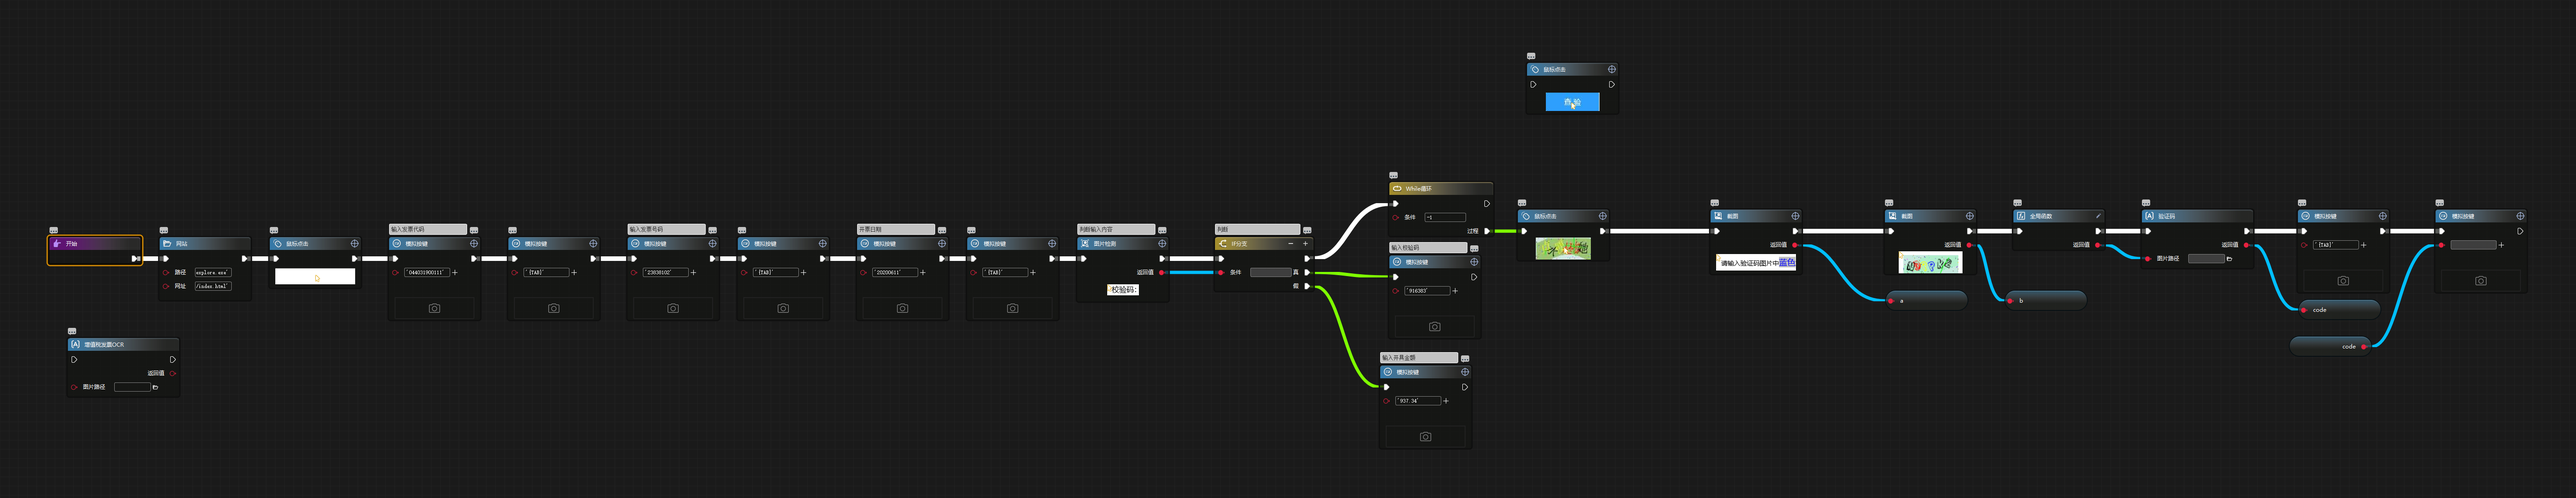
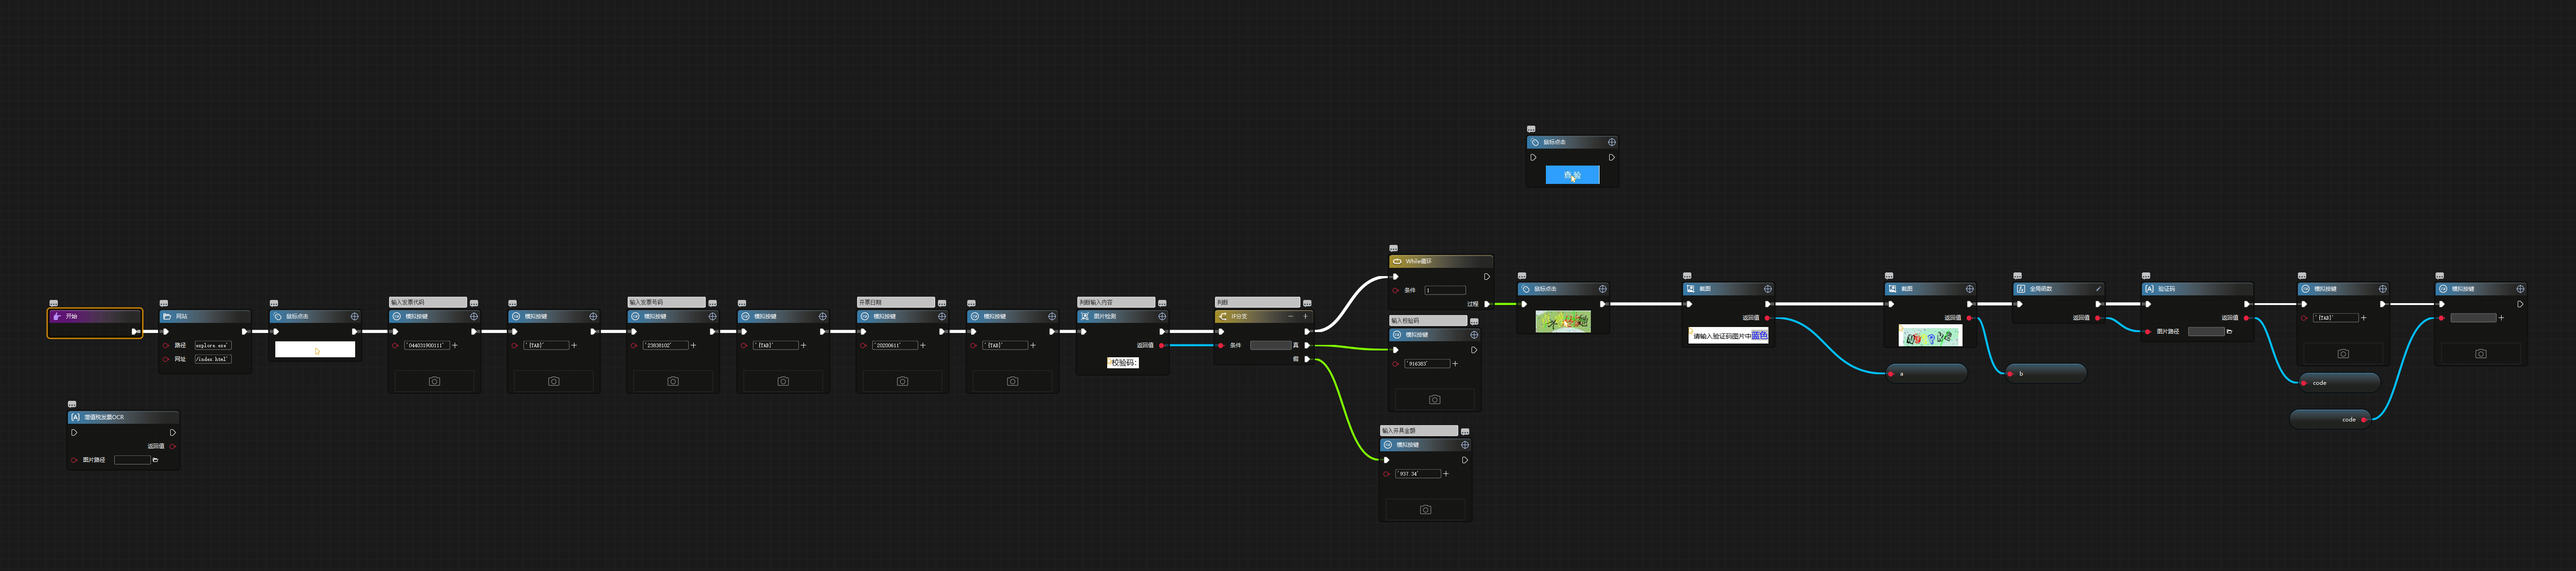
20200623151353

diff --git a/codes/Main.py b/codes/Main.py
@@ -1,5 +1,5 @@
 # coding=utf-8
-# 编译日期：2020-06-23 15:11:57
+# 编译日期：2020-06-23 15:13:53
 # 版权所有：www.i-search.com.cn
 import time
 import pdb
@@ -87,10 +87,12 @@ class lanhe_fapiao:
             ikeyboard.key_send_cs(text='937.34',waitfor=10)
         # While循环
         self.__logger.debug('Flow:flow1,StepNodeTag:2314350501348,Note:')
-        while -1:
+        while 1:
             # 鼠标点击
             self.__logger.debug('Flow:flow1,StepNodeTag:23151109681113,Note:')
+            time.sleep(0.5)
             iie.do_click_pos(win_title=r'国家税务总局全国增值税发票查验平台 - Internet Explorer',url=r'https://inv-veri.chinatax.gov.cn/index.html',selector=r'#yzm_img',button=r'left',curson=r'center',times=1,run_mode=r'unctrl',continue_on_error=r'break',waitfor=10)
+            time.sleep(5)
             # 截图
             self.__logger.debug('Flow:flow1,StepNodeTag:2314353040452,Note:')
             a = iimg.capture_image(win_title=r'国家税务总局全国增值税发票查验平台 - Internet Explorer',win_text=r'',left_indent=1253,top_indent=572,width=210,height=36,waitfor=30)

diff --git a/codes/Main_d.py b/codes/Main_d.py
@@ -1,5 +1,5 @@
 # coding=utf-8
-# 编译日期：2020-06-23 15:11:57
+# 编译日期：2020-06-23 15:13:53
 # 版权所有：www.i-search.com.cn
 import time
 import pdb
@@ -87,10 +87,12 @@ class lanhe_fapiao:
             ikeyboard.key_send_cs(text='937.34',waitfor=10)
         # While循环
         self.__logger.debug('Flow:flow1,StepNodeTag:2314350501348,Note:')
-        while -1:
+        while 1:
             # 鼠标点击
             self.__logger.debug('Flow:flow1,StepNodeTag:23151109681113,Note:')
+            time.sleep(0.5)
             iie.do_click_pos(win_title=r'国家税务总局全国增值税发票查验平台 - Internet Explorer',url=r'https://inv-veri.chinatax.gov.cn/index.html',selector=r'#yzm_img',button=r'left',curson=r'center',times=1,run_mode=r'unctrl',continue_on_error=r'break',waitfor=10)
+            time.sleep(5)
             # 截图
             self.__logger.debug('Flow:flow1,StepNodeTag:2314353040452,Note:')
             a = iimg.capture_image(win_title=r'国家税务总局全国增值税发票查验平台 - Internet Explorer',win_text=r'',left_indent=1253,top_indent=572,width=210,height=36,waitfor=30)
